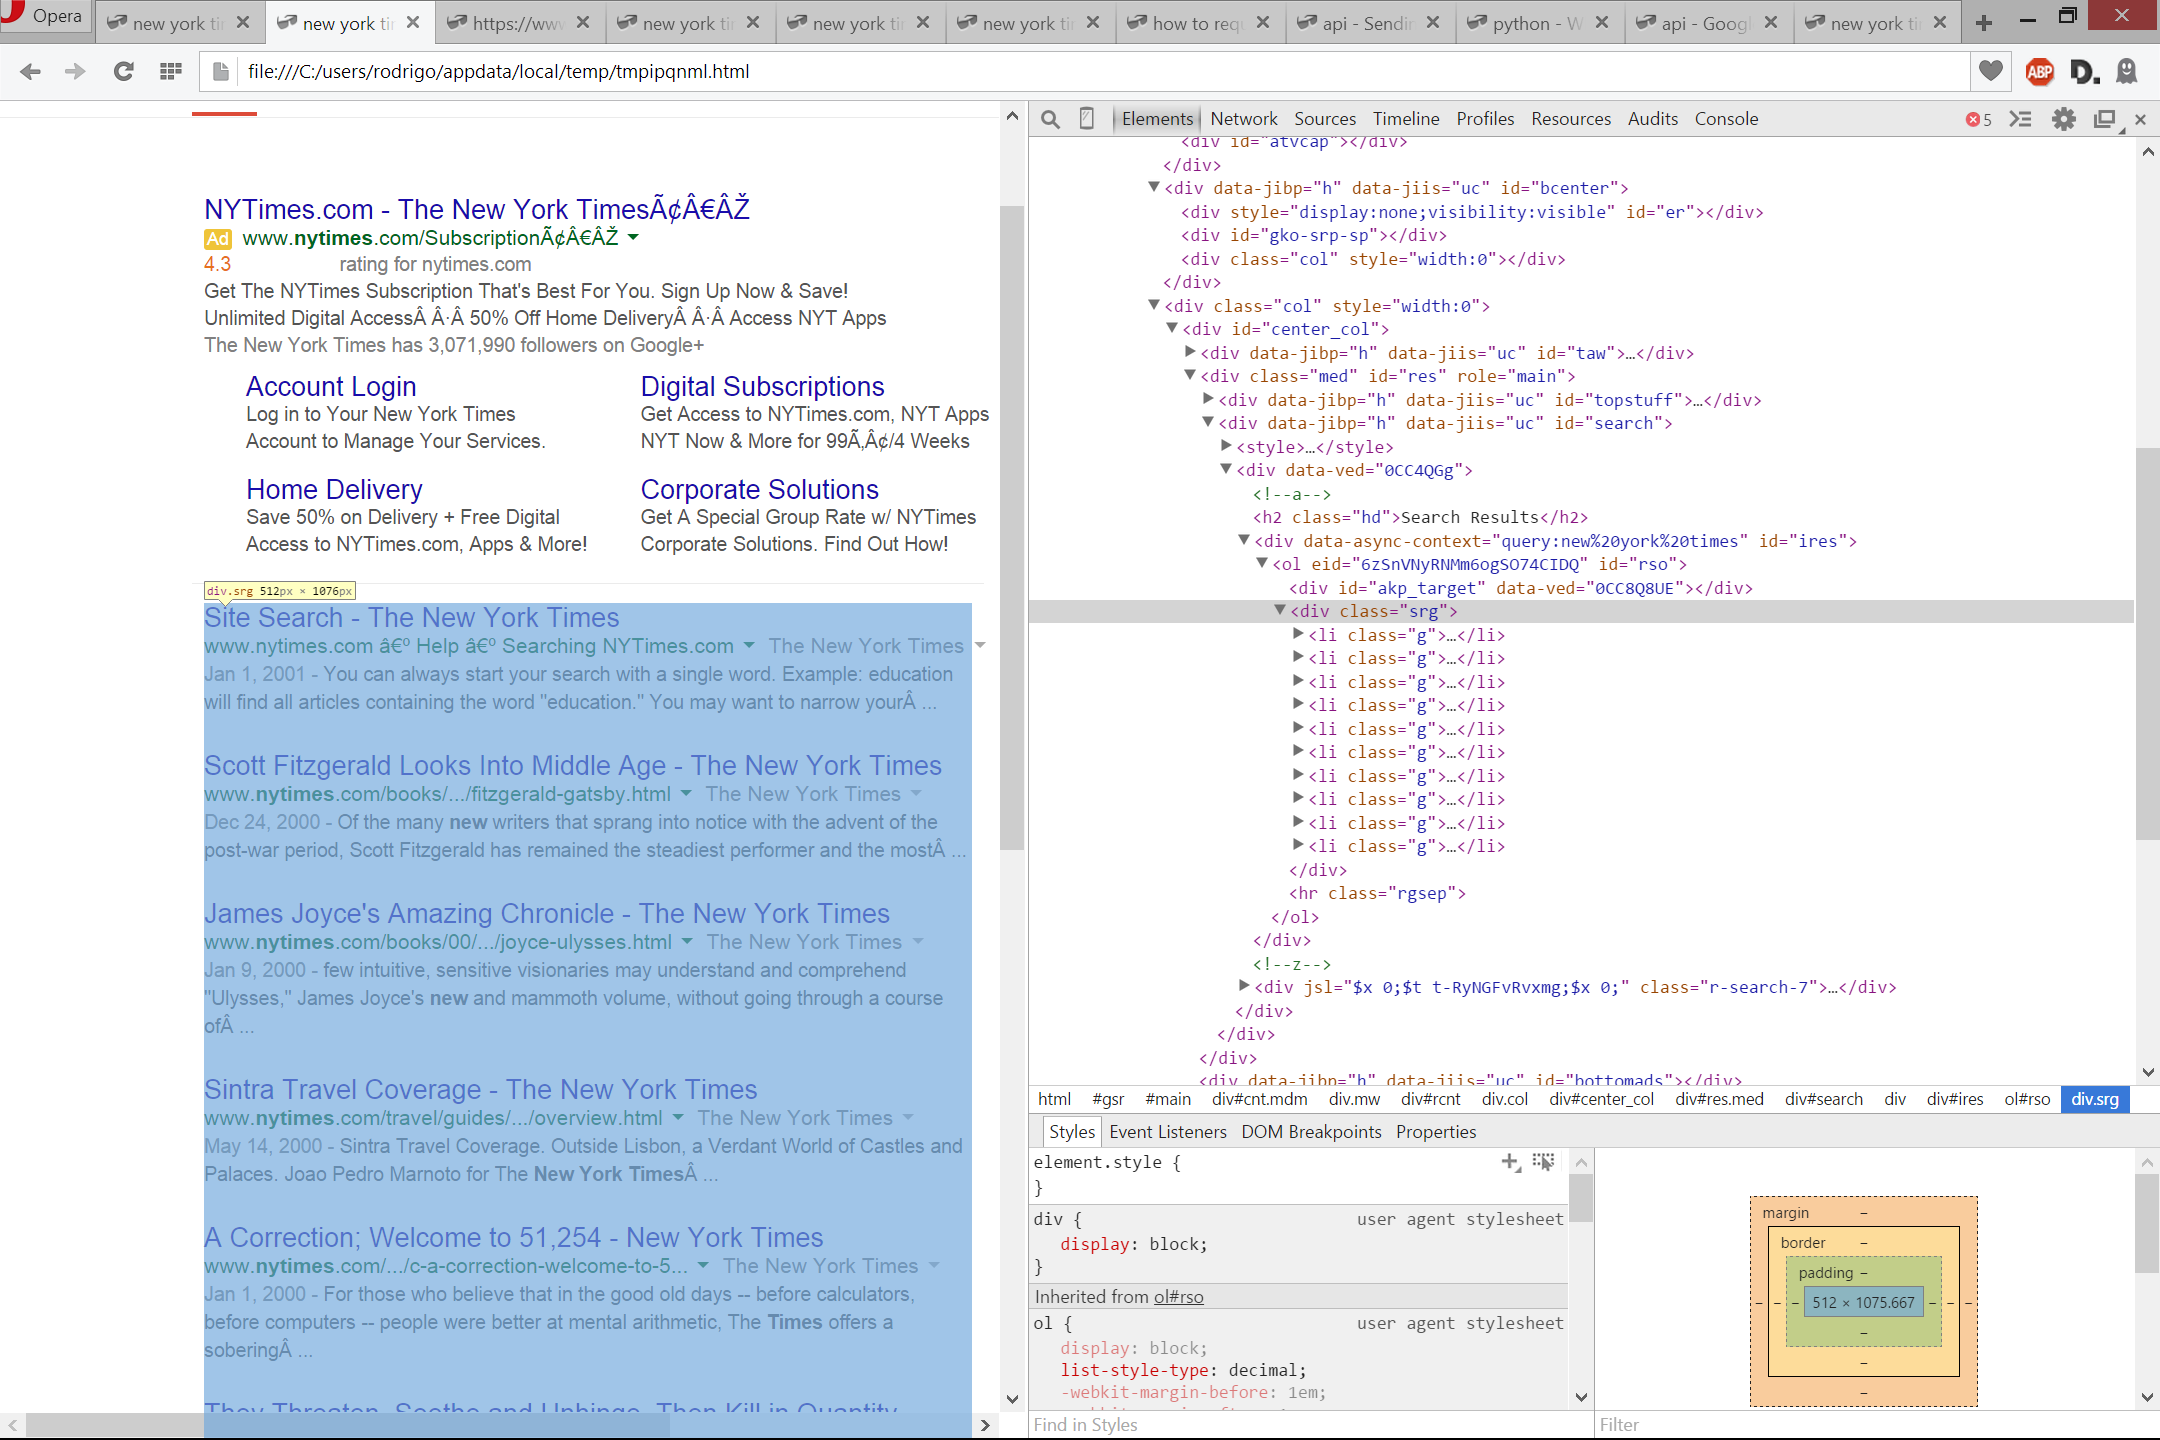
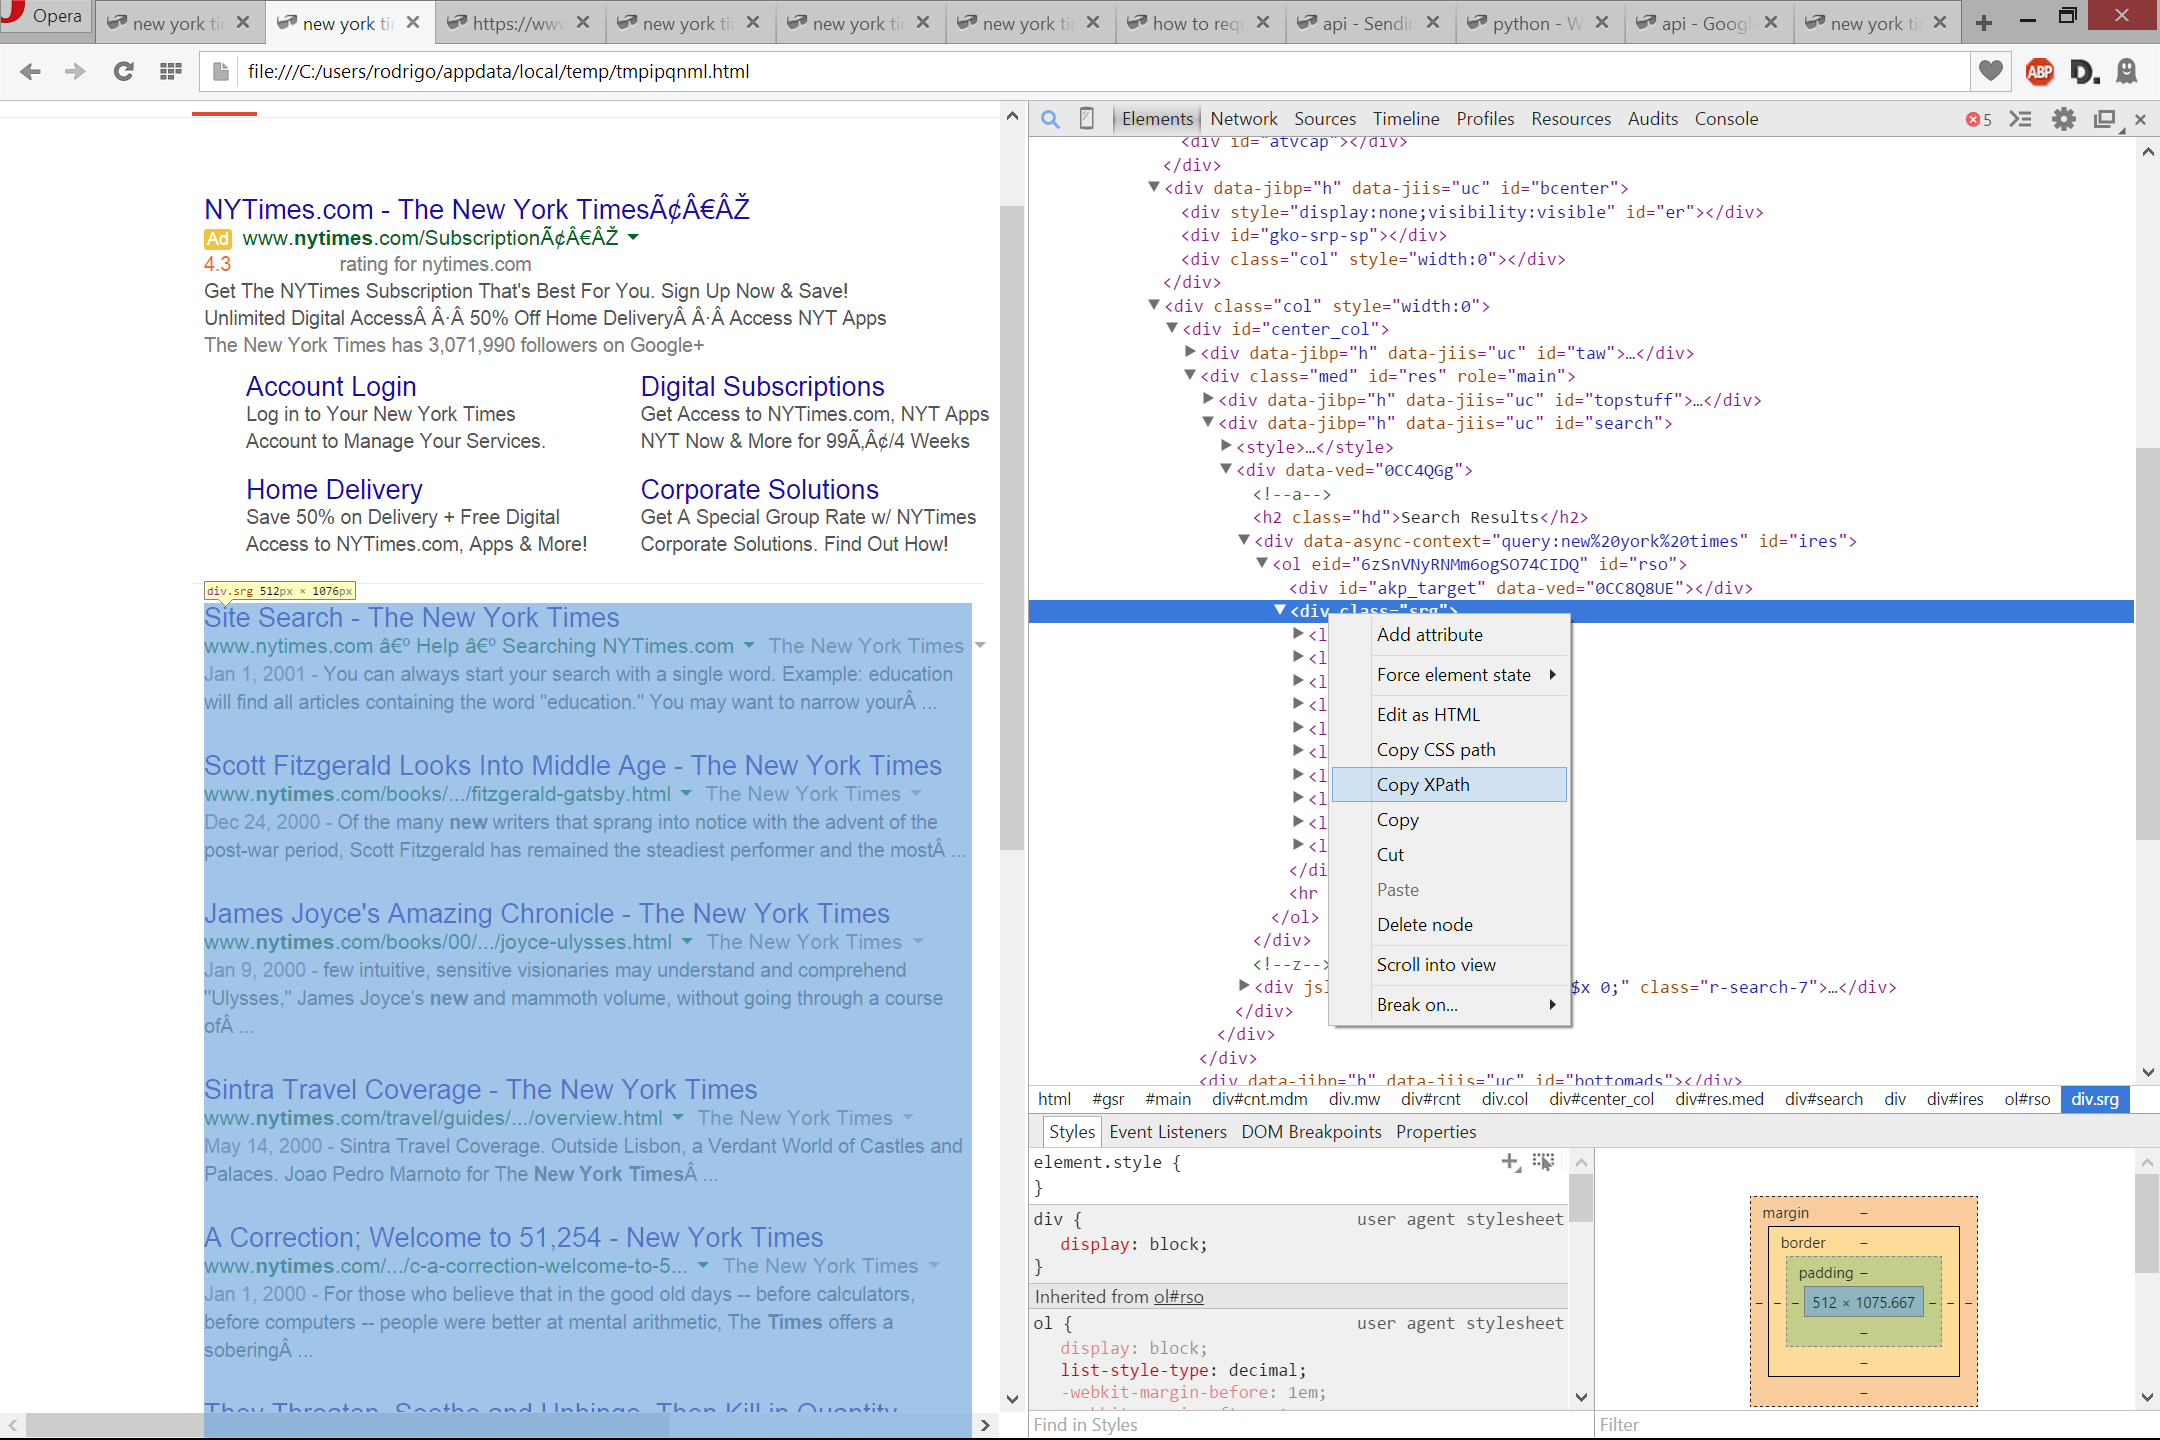
replaced two pictures

Changed region(s): [[0.4653, 0.4062, 0.9926, 0.625], [0.6204, 0.625, 0.7444, 0.7188]]

diff --git a/crawlers/Crawling-Google/README.md b/crawlers/Crawling-Google/README.md
@@ -515,7 +515,7 @@ Now, let's use the devtools once more and see if we can find the xpath that sele
 that contains the hyperlinks to those outside New York Times related websites:
 
 Use the magnifying glass on the top-left of the devtools window
-![Select the parent node which highlights the DOM box containig results](https://github.com/rodricios/crawl-to-the-future/blob/master/crawlers/Crawling-Google/select-ol-node.png?raw=true "Select search results parent node")
+![Select the parent node which highlights the DOM box containig results](https://github.com/rodricios/crawl-to-the-future/blob/master/crawlers/Crawling-Google/use-magnifying-glass.png?raw=true "Select search results parent node")
 
 Now right-click and copy the xpath
 
